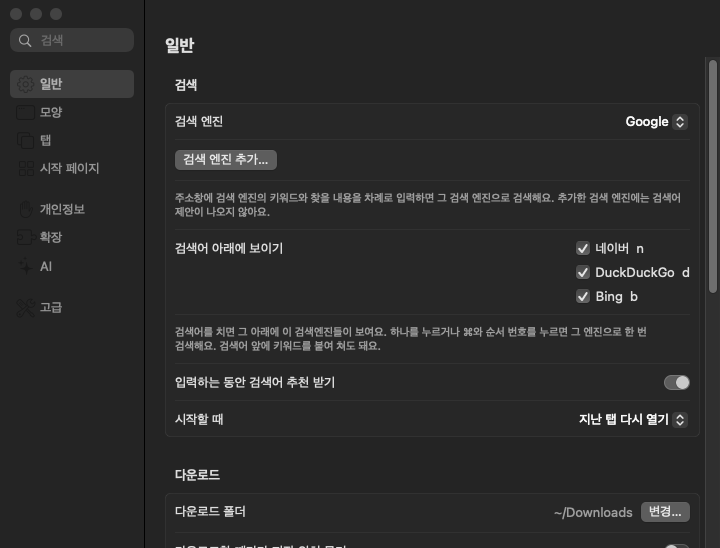
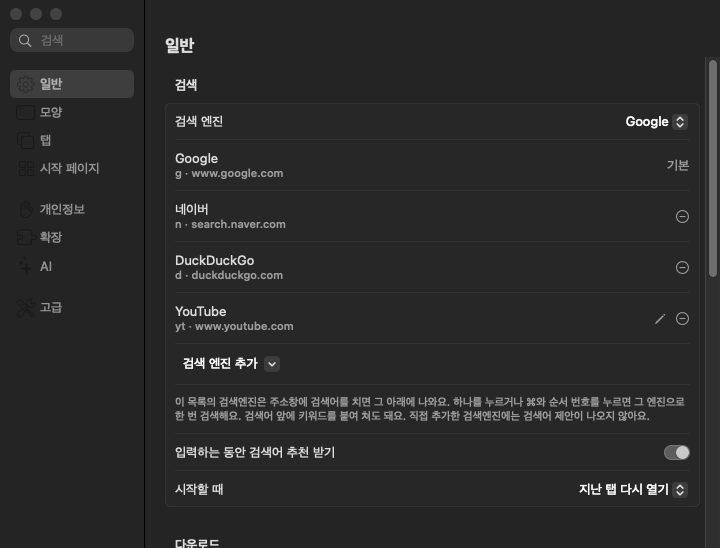
Show the search engine list to add to and take from in the preview.

diff --git a/docs/preview/engines/index.html b/docs/preview/engines/index.html
@@ -3,13 +3,18 @@
 <meta charset="utf-8">
 <meta name="viewport" content="width=device-width, initial-scale=1">
 <meta name="robots" content="noindex, nofollow">
-<title>검색엔진 바로 고르기</title>
+<title>검색엔진 목록</title>
 <style>
   body { margin: 0; padding: 16px; background: #E9E9E6; font: 15px/1.6 -apple-system, "Apple SD Gothic Neo", sans-serif; color: #111; }
   img { display: block; width: 100%; max-width: 720px; height: auto; margin: 16px auto 0; border-radius: 12px; }
-  p { max-width: 720px; margin: 16px auto 0; color: #444; }
+  p, ul { max-width: 720px; margin: 16px auto 0; color: #444; }
 </style>
-<p><b>주소창:</b> 검색어를 치면 첫 줄 아래에 다른 검색엔진이 나와요. 누르거나 ⌘1·⌘2·⌘3(주소창이 열려 있을 때만)을 누르면 그 엔진으로 한 번 검색해요. 작은 글자는 키워드라 <b>n 돼지국밥</b>처럼 쳐도 돼요.</p>
+<p><b>설정 › 일반 › 검색:</b> 검색엔진이 하나의 목록이에요. 그림은 Bing을 빼고 유튜브를 넣은 상태예요.</p>
+<ul>
+  <li><b>빼기(−):</b> 어떤 엔진이든 뺄 수 있어요. 지금 기본으로 쓰는 엔진만 "기본"이라 못 빼요.</li>
+  <li><b>검색 엔진 추가 ▾:</b> 뺐던 엔진, 자주 쓰는 엔진(다음·유튜브·나무위키·위키백과·쿠팡·네이버 지도·GitHub·Perplexity), "직접 입력…"이 나와요.</li>
+  <li>직접 추가한 엔진은 연필로 이름·키워드·주소를 고칠 수 있어요.</li>
+</ul>
+<img src="settings.png" alt="설정의 검색엔진 목록">
+<p><b>주소창:</b> 목록에 있는 엔진이 그대로 칩과 키워드가 돼요(기본 엔진은 첫 줄).</p>
 <img src="app.png" alt="주소창의 검색엔진 칩">
-<p><b>설정 › 일반 › 검색:</b> "검색어 아래에 보이기"에서 칩에 나올 검색엔진을 고를 수 있어요. 기본 검색엔진은 첫 줄이 쓰니 목록에 없고, 직접 추가한 검색엔진도 여기에 함께 나와요.</p>
-<img src="settings.png" alt="설정의 검색엔진 선택">
